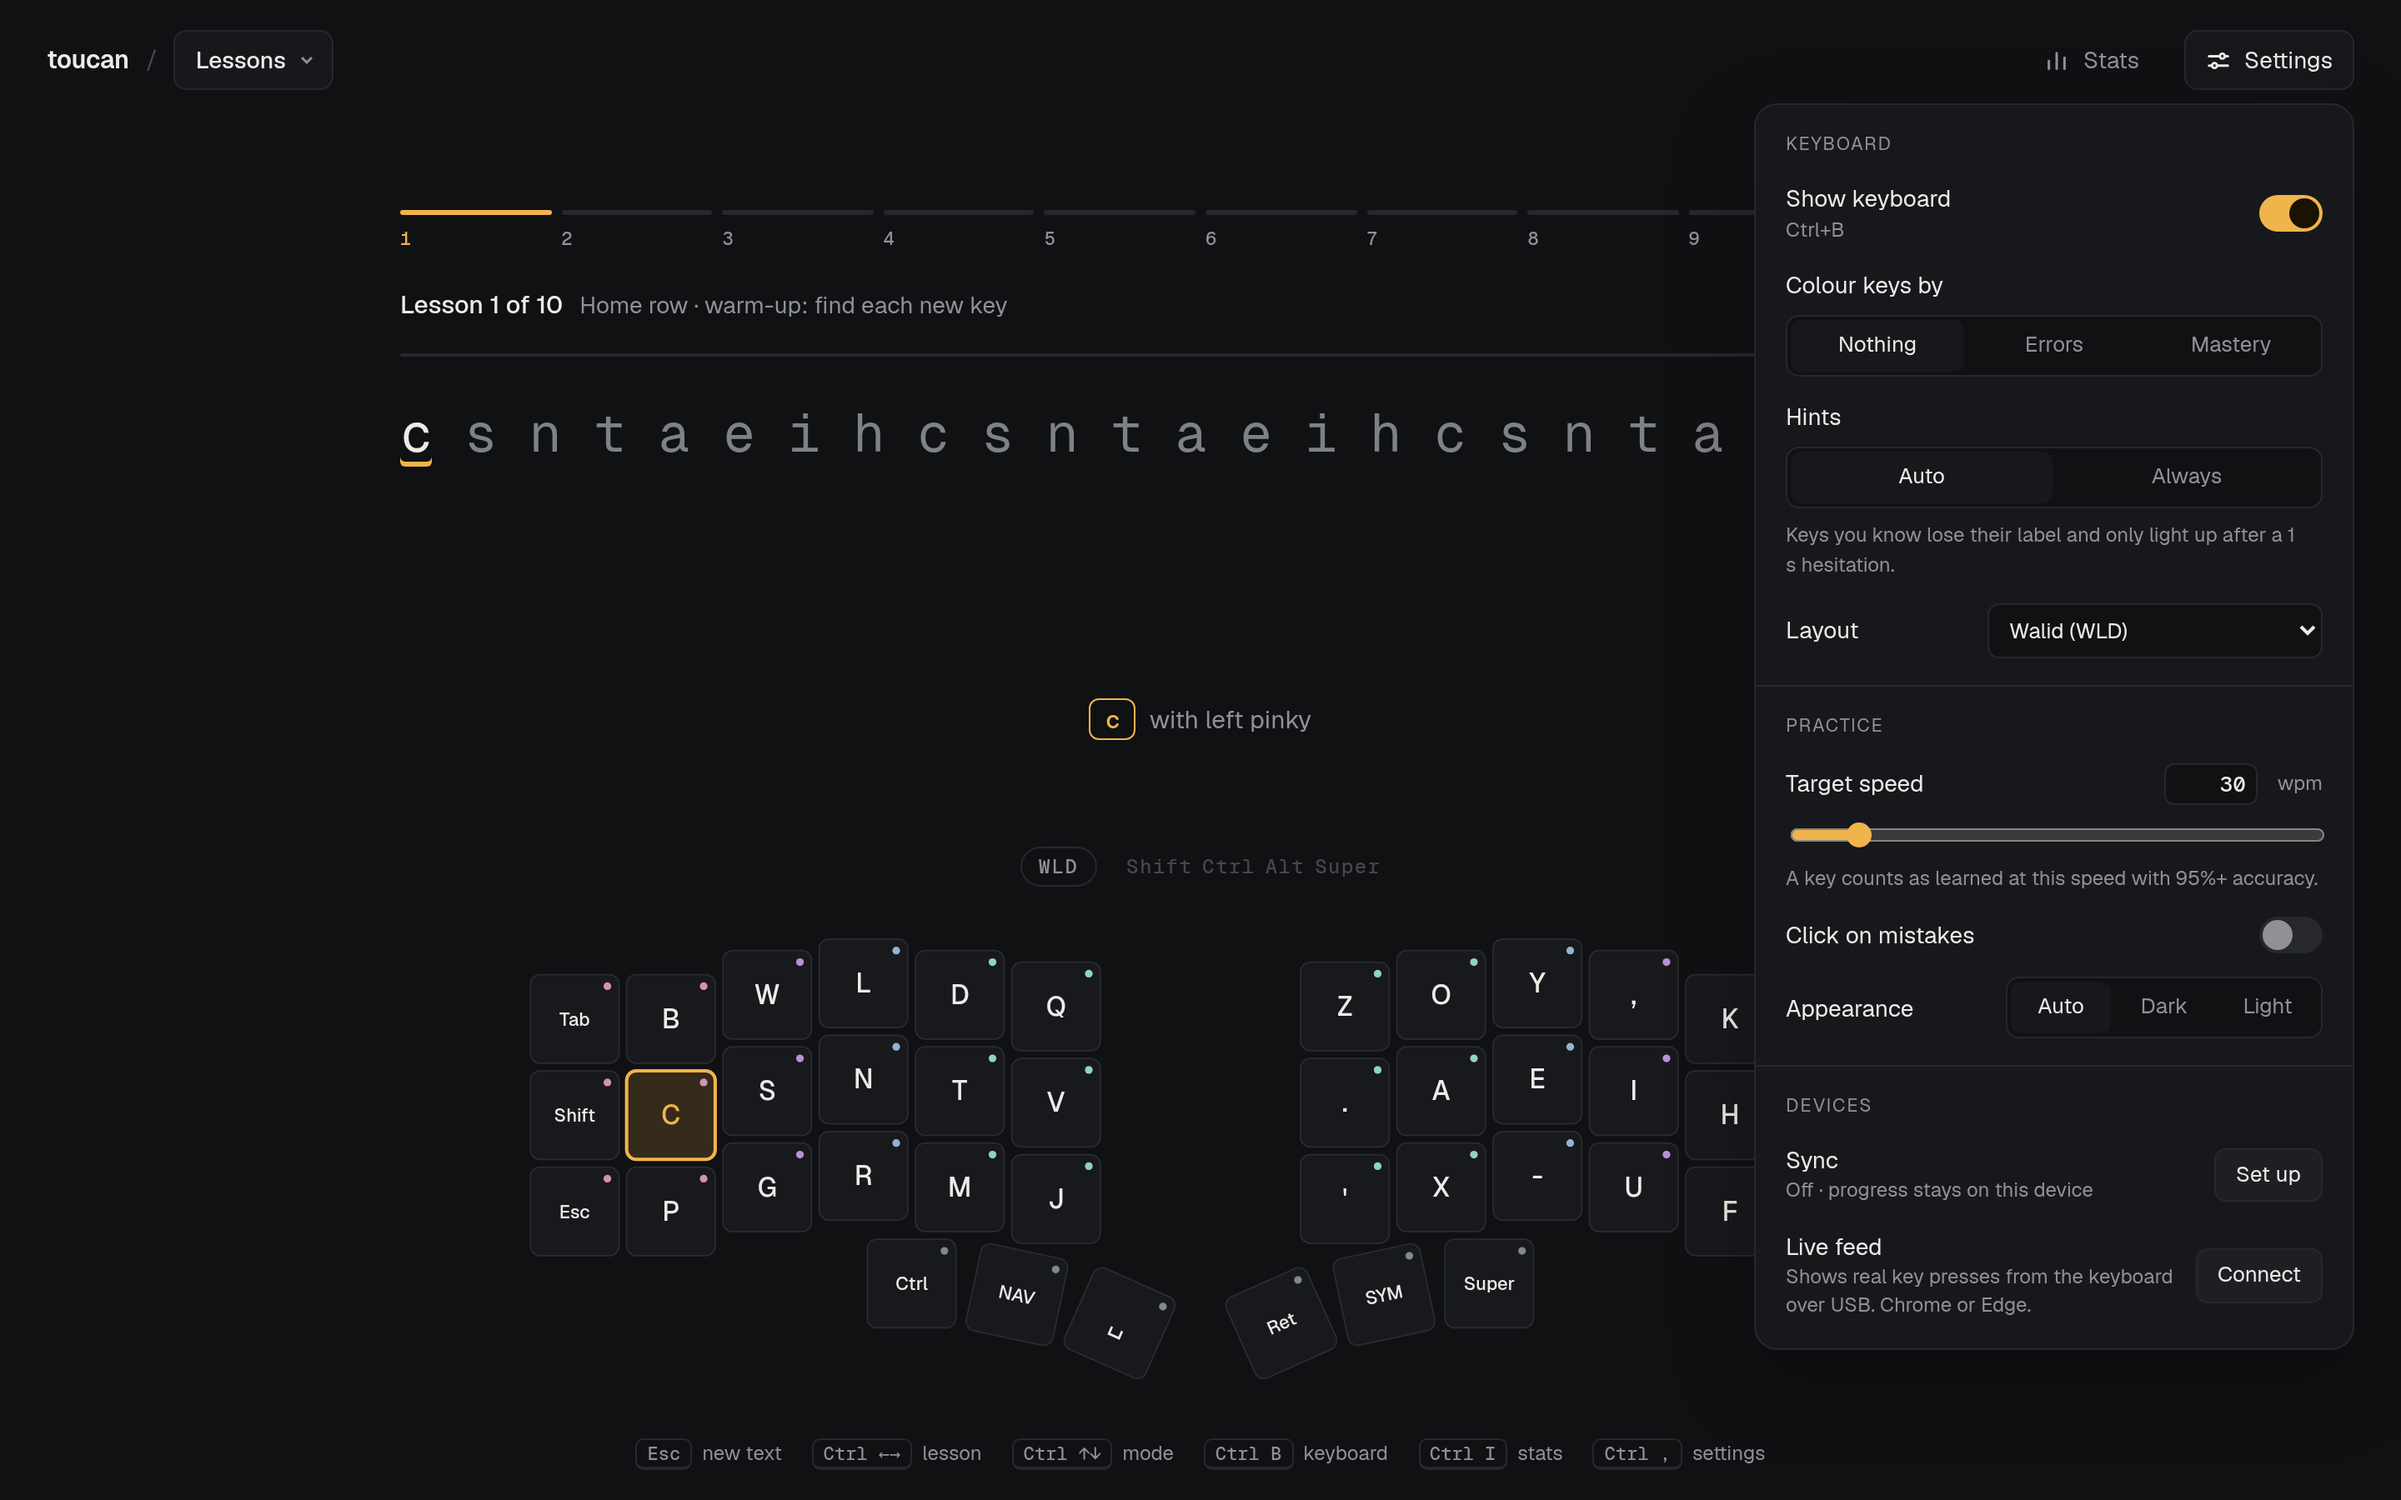
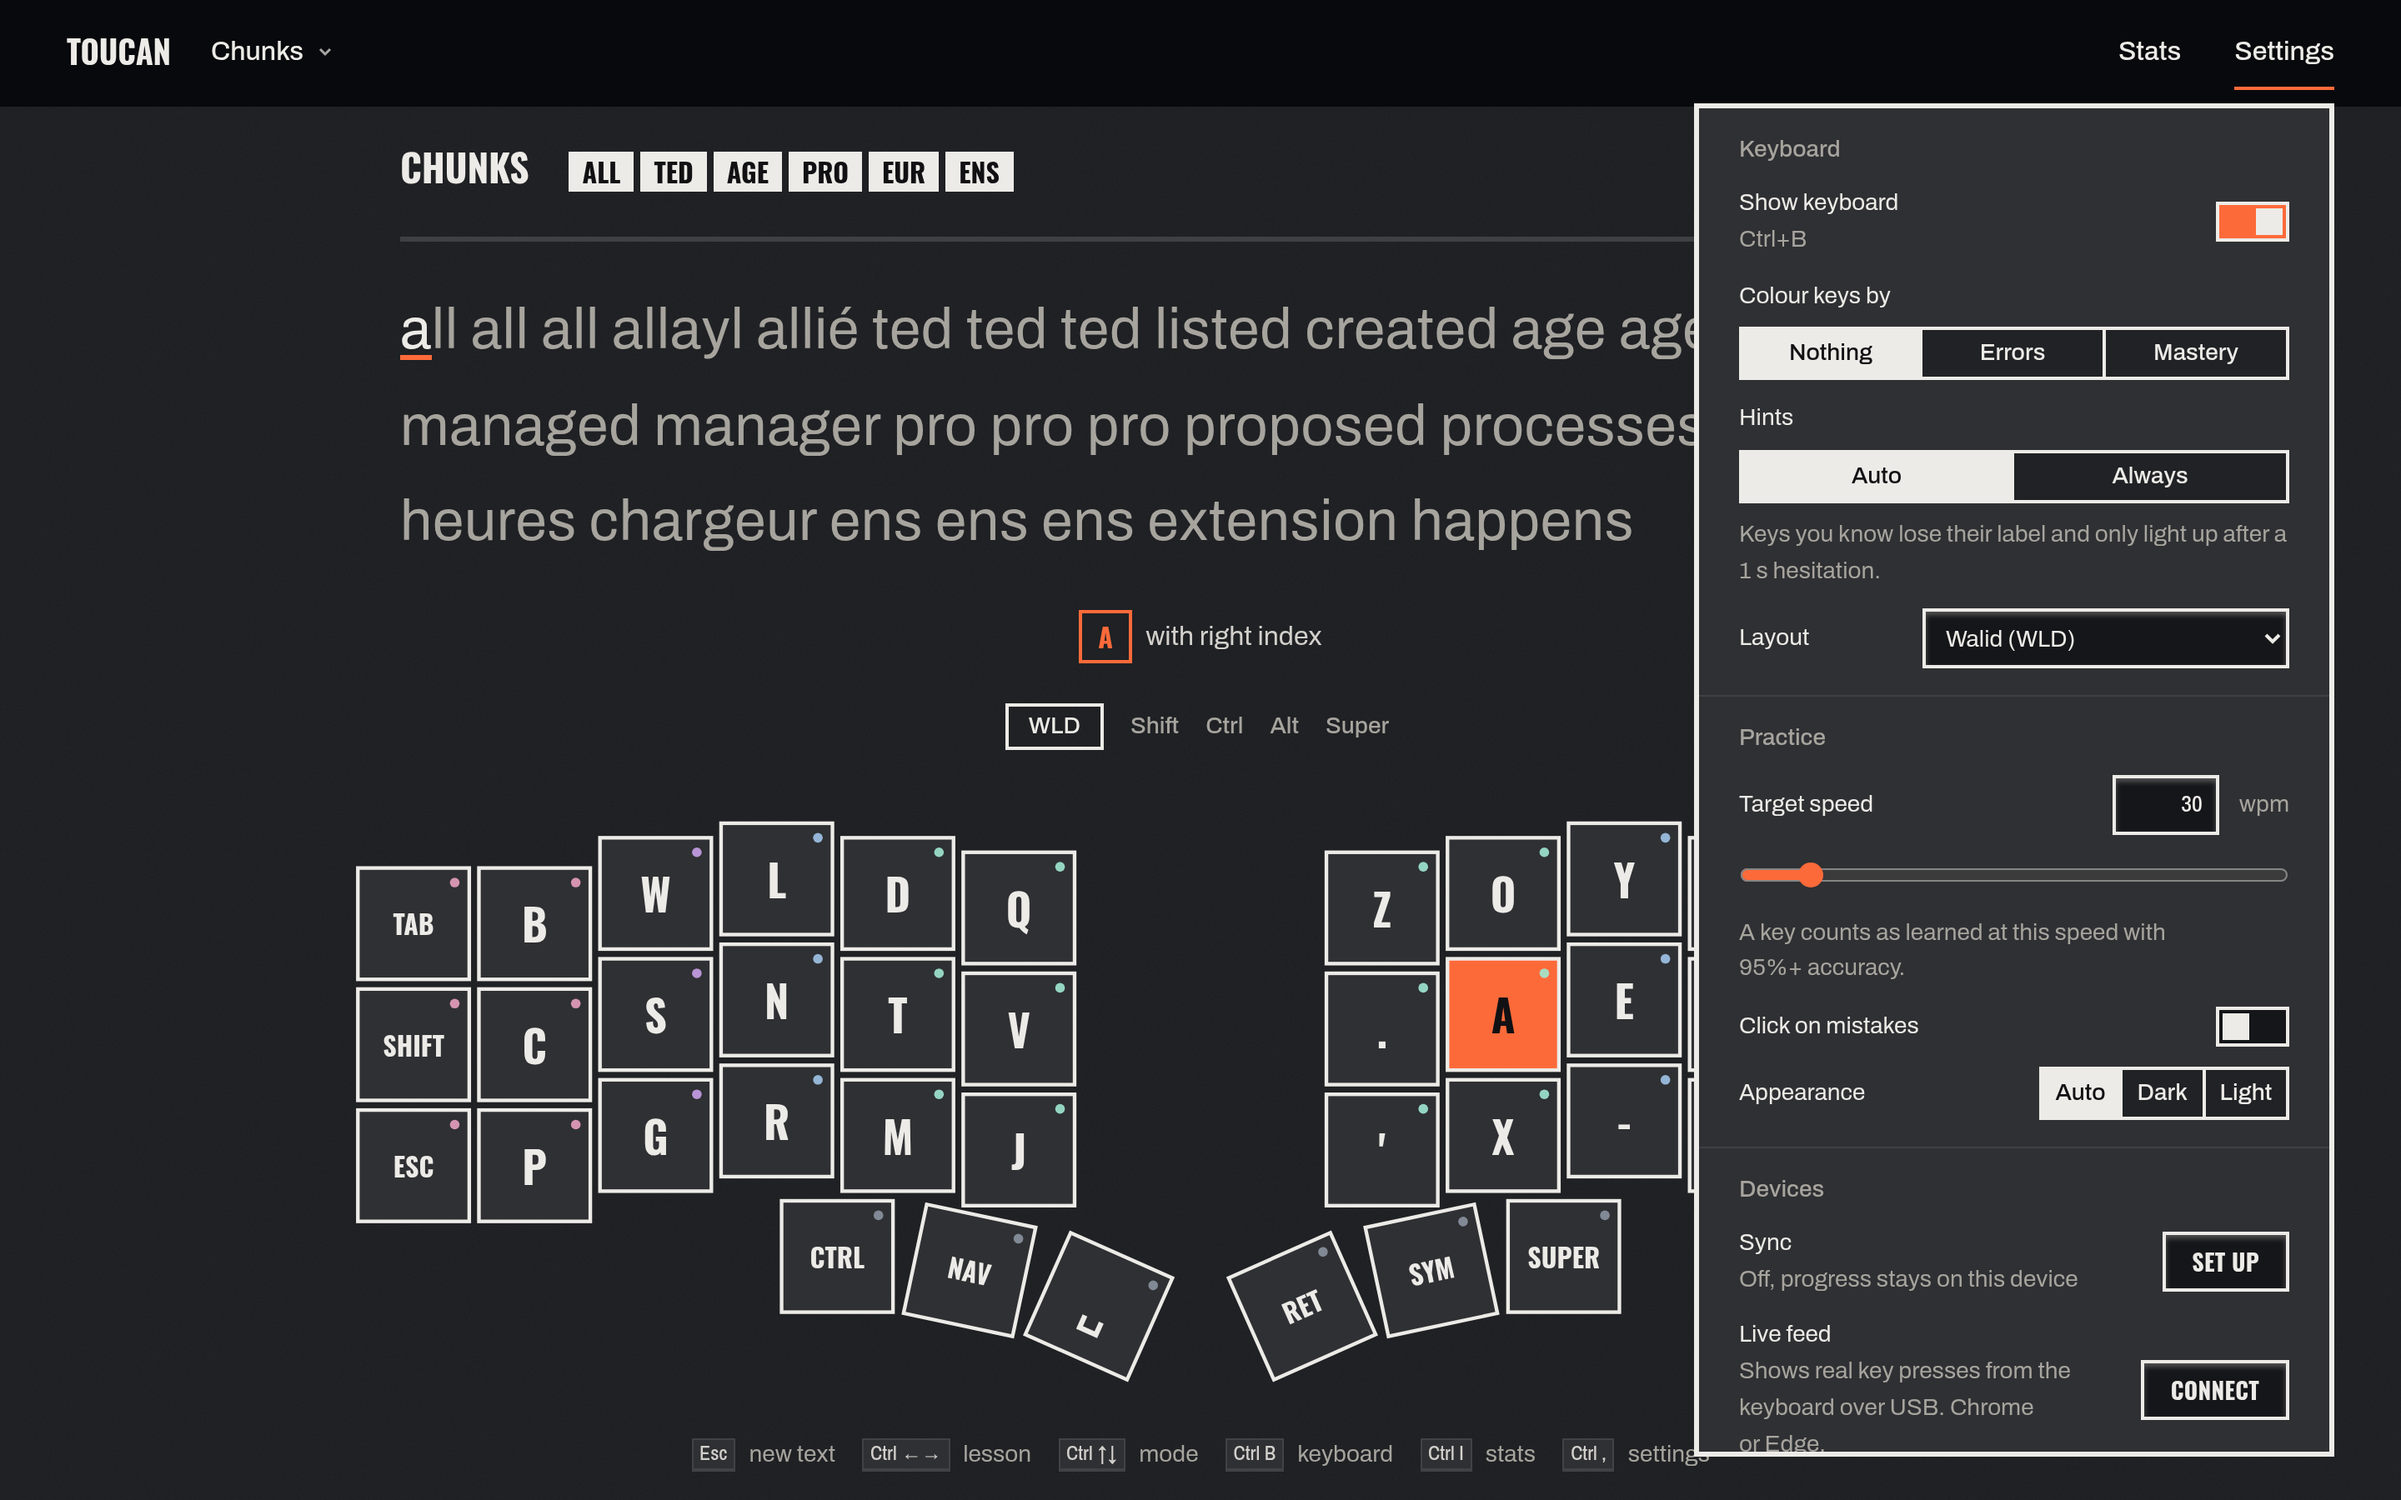
site: the lesson, Chunks and Settings captures retaken on the redesigned trainer; trainer: the sync QR keeps light paper and dark modules in the night pour

diff --git a/trainer/index.html b/trainer/index.html
@@ -95,7 +95,7 @@ header { display: flex; align-items: center; gap: var(--space-lg); min-height: 6
 #sync-panel { display: grid; gap: var(--space-xs); padding-top: var(--space-sm); border-top: var(--rule-hair) solid var(--color-paper-3); }
 #sync-code { width: 100%; font-family: var(--font-outlier); letter-spacing: 0.02em; }
 #sync-panel .btns { display: flex; gap: var(--space-xs); justify-content: flex-end; flex-wrap: wrap; }
-#sync-qr:empty { display: none; } #sync-qr svg { display: block; width: 168px; height: 168px; margin: var(--space-2xs) auto; padding: var(--space-xs); background: var(--color-plate-ink); border: 2px solid var(--color-ink); }
+#sync-qr:empty { display: none; } #sync-qr svg { display: block; width: 168px; height: 168px; margin: var(--space-2xs) auto; padding: var(--space-xs); background: var(--color-qr-paper); border: 2px solid var(--color-ink); } #sync-qr svg path { fill: var(--color-qr-ink); }
 
 /* ---- main: the lesson track, the title line, the text, the hint ---- */
 main { display: flex; flex-direction: column; align-items: center; padding: var(--space-lg) var(--gutter); }

diff --git a/trainer/tokens.css b/trainer/tokens.css
@@ -25,6 +25,7 @@
   --color-bar: var(--color-ink); --color-bar-ink: var(--color-plate-ink);
   --cast: drop-shadow(5px 5px 0 var(--color-ink));
   --color-tag-ink: oklch(18% 0.005 270);
+  --color-qr-paper: oklch(95% 0.006 80); --color-qr-ink: oklch(12% 0.005 270);   /* a QR code is read by a camera: light paper, dark modules, in both pours */
   --l1: oklch(72% 0.11 240); --l2: oklch(72% 0.12 300); --l3: oklch(76% 0.13 75); --l4: oklch(72% 0.11 175); --l5: oklch(72% 0.12 350);
   /* names the script paints with (charts, the board overlay) */
   --key: var(--color-plate); --ok: var(--color-success); --err: var(--color-error); --accent: var(--color-accent); --next: var(--color-accent); --ink-dim: var(--color-muted);
